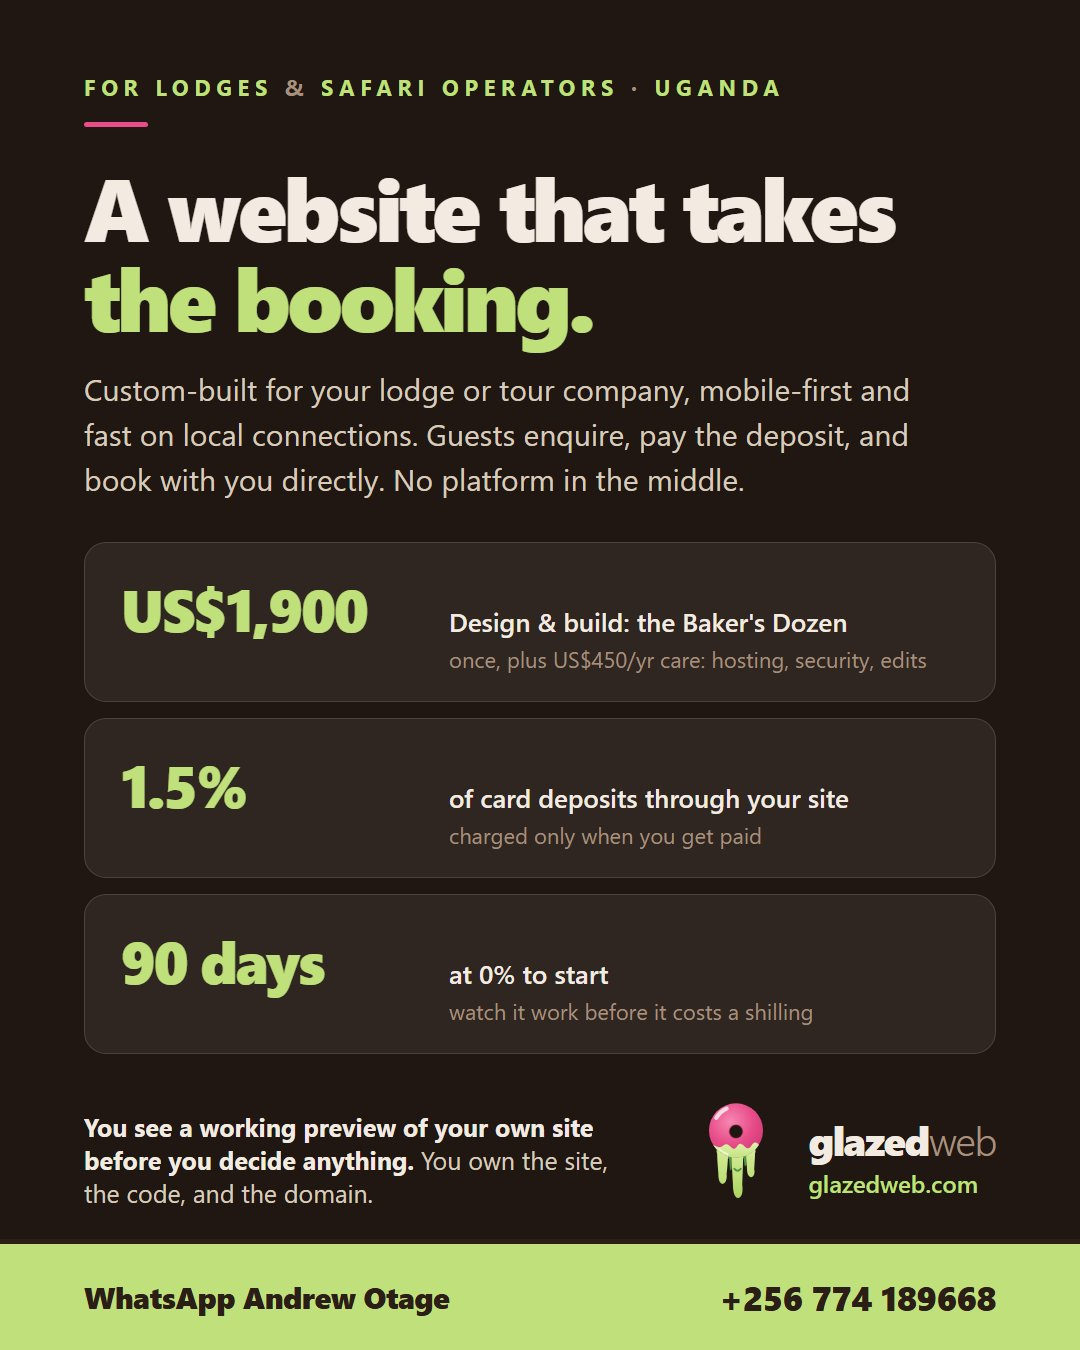
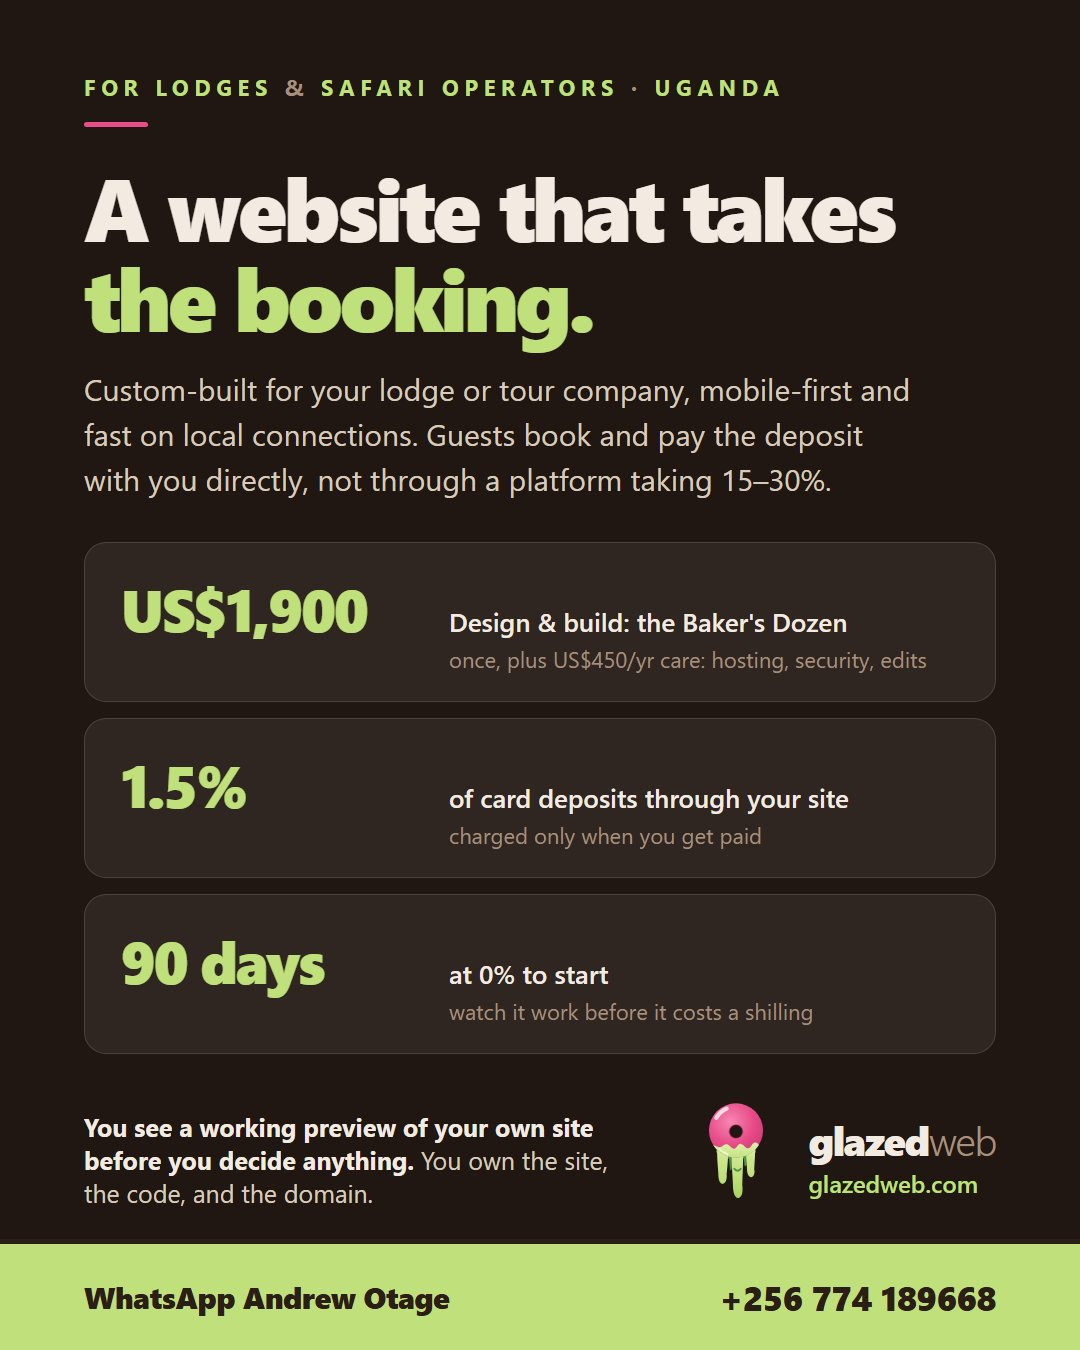
The researched cut goes on the card itself
The image travels without its post text, and the strongest researched
fact, what the platforms actually take, lived only in the text. The
sub now closes on it: not through a platform taking 15-30%, the range
that covers Booking.com through GetYourGuide with sources on file in
the accompanying txt. Kept to three lines with a non-breaking space
so the range never splits across a wrap, after the first attempt
pushed the bottom row under the contact bar.

Changed region(s): [[0.0611, 0.3111, 0.8556, 0.3733]]

diff --git a/glaze/assets/collateral/uganda-operators-post.html b/glaze/assets/collateral/uganda-operators-post.html
@@ -30,7 +30,7 @@ h1 em{font-style:normal;color:#BFE07A}
   <div class="k">For lodges <span class="sep">&amp;</span> safari operators <span class="sep">·</span> Uganda</div>
   <div class="rule"></div>
   <h1>A website that takes <em>the booking.</em></h1>
-  <div class="sub">Custom-built for your lodge or tour company, mobile-first and fast on local connections. Guests enquire, pay the deposit, and book with you directly. No platform in the middle.</div>
+  <div class="sub">Custom-built for your lodge or tour company, mobile-first and fast on local connections. Guests book and pay the deposit with you directly, not through a platform taking&nbsp;15–30%.</div>
   <div class="tiles">
     <div class="tile"><div class="n">US$1,900</div><div class="l">Design &amp; build: the Baker's Dozen<small>once, plus US$450/yr care: hosting, security, edits</small></div></div>
     <div class="tile"><div class="n">1.5%</div><div class="l">of card deposits through your site<small>charged only when you get paid</small></div></div>
